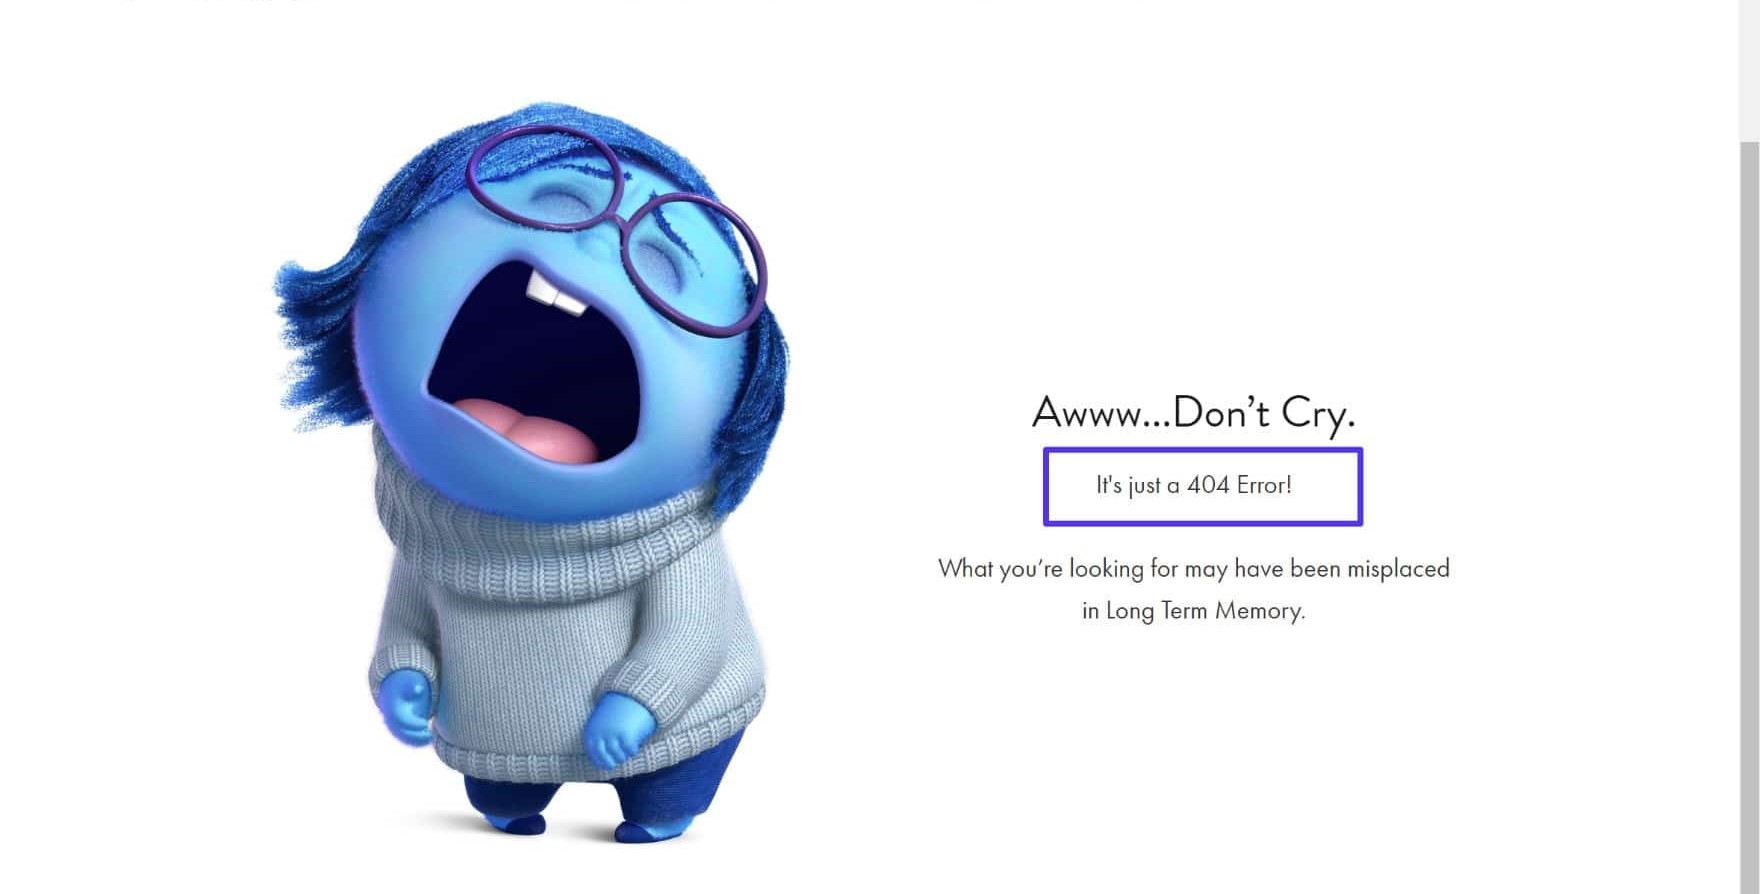
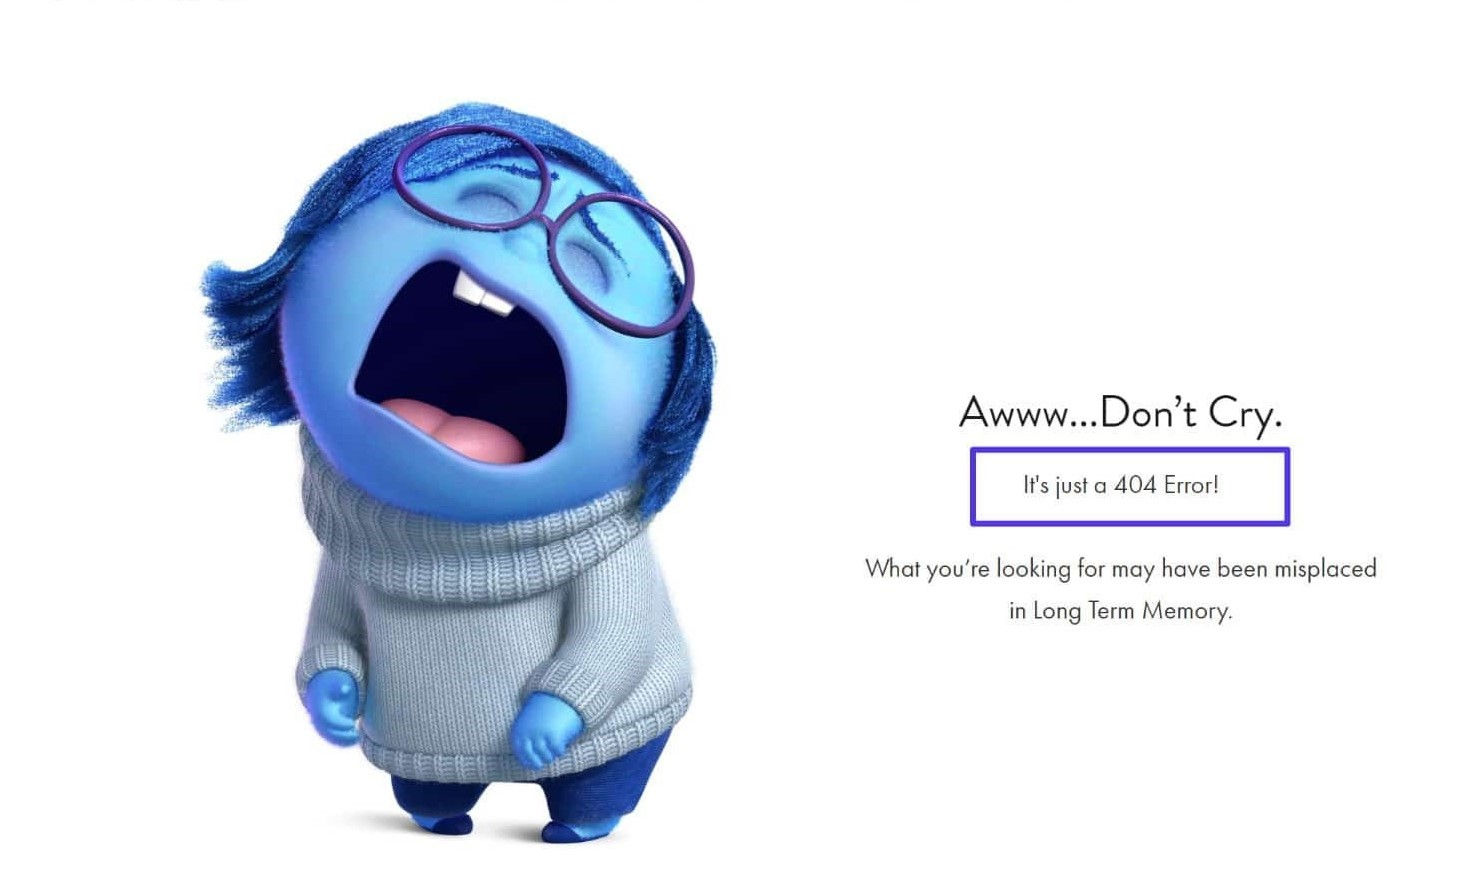
PublicNavbar.tsx done

Changed region(s): [[0.1229, 0.0906, 0.4915, 0.9664], [0.5222, 0.4228, 0.9522, 0.6946], [0.9829, 0.151, 1.0, 1.0]]

diff --git a/src/Components/NavbarArea/PublicNavbar/PublicNavbar.tsx b/src/Components/NavbarArea/PublicNavbar/PublicNavbar.tsx
@@ -13,9 +13,10 @@ import Button from '@mui/material/Button';
 import Tooltip from '@mui/material/Tooltip';
 import MenuItem from '@mui/material/MenuItem';
 import AdbIcon from '@mui/icons-material/Adb';
+import {Link, Navigate, NavLink} from "react-router-dom";
 
 const pages = ['Login', 'Coupons'];
-// const settings = ['Profile', 'Account', 'Dashboard', 'Logout'];
+const settings = ['Home'];
 
 function ResponsiveAppBar() {
     const [anchorElNav, setAnchorElNav] = React.useState<null | HTMLElement>(null);
@@ -37,16 +38,17 @@ function ResponsiveAppBar() {
     };
 
     return (
-        <AppBar position="static">
+        <AppBar className={"appBar"} position="static" sx={{backgroundColor: "#ec9f73"} }>
             <Container maxWidth="xl">
                 <Toolbar disableGutters>
-                    {/*<img src={"the-coupon-emporium-favicon-black.png"} alt={"Logo"}/>*/}
-                    <img src={"the-coupon-emporium-high-resolution-logo.png"} alt={"Logo"}/>
+                    <NavLink to={"home"}><img src={"the-coupon-emporium-favicon-white.png"} alt={"Logo"}/></NavLink>
+                    
+                    {/*<img src={"the-coupon-emporium-high-resolution-logo.png"} alt={"Logo"}/>*/}
                     <Typography
                         variant="h6"
                         noWrap
-                        component="a"
-                        href="#app-bar-with-responsive-menu"
+                        component={Link}
+                        to="/login"
                         sx={{
                             mr: 2,
                             display: {xs: 'none', md: 'flex'},
@@ -57,7 +59,7 @@ function ResponsiveAppBar() {
                             textDecoration: 'none',
                         }}
                     >
-                        The Coupon Emporium
+                        {/*Hello Guest */}
                     </Typography>
 
                     <Box sx={{flexGrow: 1, display: {xs: 'flex', md: 'none'}}}>
@@ -68,6 +70,7 @@ function ResponsiveAppBar() {
                             aria-haspopup="true"
                             onClick={handleOpenNavMenu}
                             color="inherit"
+                            href={"/login"}
                         >
                             <MenuIcon/>
                         </IconButton>
@@ -101,8 +104,8 @@ function ResponsiveAppBar() {
                     <Typography
                         variant="h5"
                         noWrap
-                        component="a"
-                        href="#app-bar-with-responsive-menu"
+                        component={Link}
+                        to="/coupons"
                         sx={{
                             mr: 2,
                             display: {xs: 'flex', md: 'none'},
@@ -114,24 +117,27 @@ function ResponsiveAppBar() {
                             textDecoration: 'none',
                         }}
                     >
-                        LOGO
+                        {/*LOGO*/}
                     </Typography>
+                    
                     <Box sx={{flexGrow: 1, display: {xs: 'none', md: 'flex'}}}>
                         {pages.map((page) => (
                             <Button
                                 key={page}
                                 onClick={handleCloseNavMenu}
                                 sx={{my: 2, color: 'white', display: 'block'}}
+                                href={page ==='Login' ? "/login" : "/coupons"}
+                                
                             >
                                 {page}
                             </Button>
                         ))}
                     </Box>
 
-                    {/*<Box sx={{ flexGrow: 0 }}>*/}
+                    {/*<Box sx={{ flexGrow:  }}>*/}
                     {/*    <Tooltip title="Open settings">*/}
                     {/*        <IconButton onClick={handleOpenUserMenu} sx={{ p: 0 }}>*/}
-                    {/*            <Avatar alt="Remy Sharp" src="/static/images/avatar/2.jpg" />*/}
+                    {/*            <Avatar alt="Remy Sharp" src="the-coupon-emporium-favicon-black.png" />*/}
                     {/*        </IconButton>*/}
                     {/*    </Tooltip>*/}
                     {/*<Menu*/}
@@ -150,11 +156,11 @@ function ResponsiveAppBar() {
                     {/*    open={Boolean(anchorElUser)}*/}
                     {/*    onClose={handleCloseUserMenu}*/}
                     {/*>*/}
-                    {/*    /!*{settings.map((setting) => (*!/*/}
-                    {/*    /!*    <MenuItem key={setting} onClick={handleCloseUserMenu}>*!/*/}
-                    {/*    /!*        <Typography textAlign="center">{setting}</Typography>*!/*/}
-                    {/*    /!*    </MenuItem>*!/*/}
-                    {/*    /!*))}*!/*/}
+                    {/*    {settings.map((setting) => (*/}
+                    {/*        <MenuItem key={setting} onClick={handleCloseUserMenu}>*/}
+                    {/*            <Typography textAlign="center">{setting}</Typography>*/}
+                    {/*        </MenuItem>*/}
+                    {/*    ))}*/}
                     {/*</Menu>*/}
                     {/*</Box>*/}
                 </Toolbar>

diff --git a/src/Components/NavbarArea/PublicNavbar/PublicNavbar.css b/src/Components/NavbarArea/PublicNavbar/PublicNavbar.css
@@ -1,7 +1,9 @@
-.PublicNavbar img {
-    /*display:  xs: 'none'md: 'flex' };*/
-/*// Adjust the width and height as needed*/
-    width: 100px; 
+.appBar{
+    /*height: 80px;*/
+}
+
+.appBar img {
+    width: 80px; 
     height: auto; 
-	
+    margin-right: 10px;
 }

diff --git a/src/Components/LayoutArea/NotFound/NotFound.css b/src/Components/LayoutArea/NotFound/NotFound.css
@@ -1,3 +1,10 @@
-.NotFound {
+.NotFound img{
+    width: 2000px;
+    height: 60px;
+    align-content: center;
+    text-align: center;
+    /*object-fit: cover;*/
+    /*object-position: center;*/
+    /*position: absolute;*/
 	
 }
